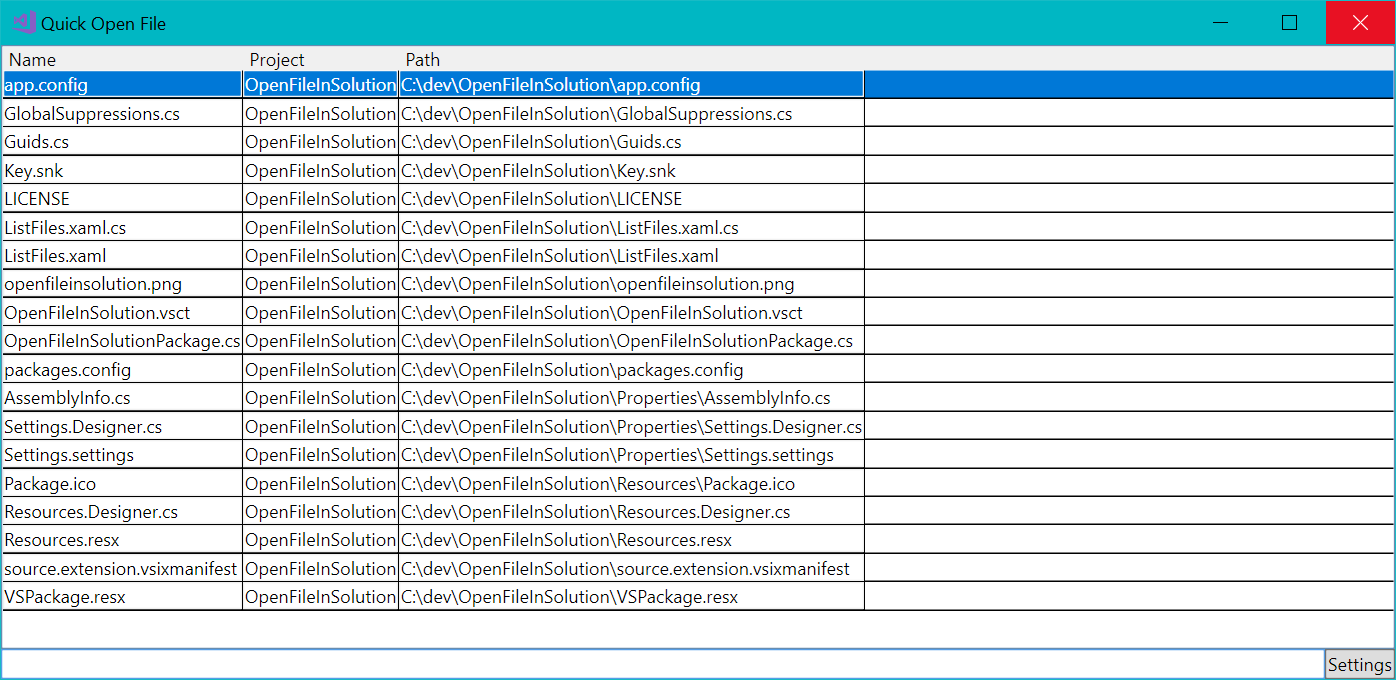
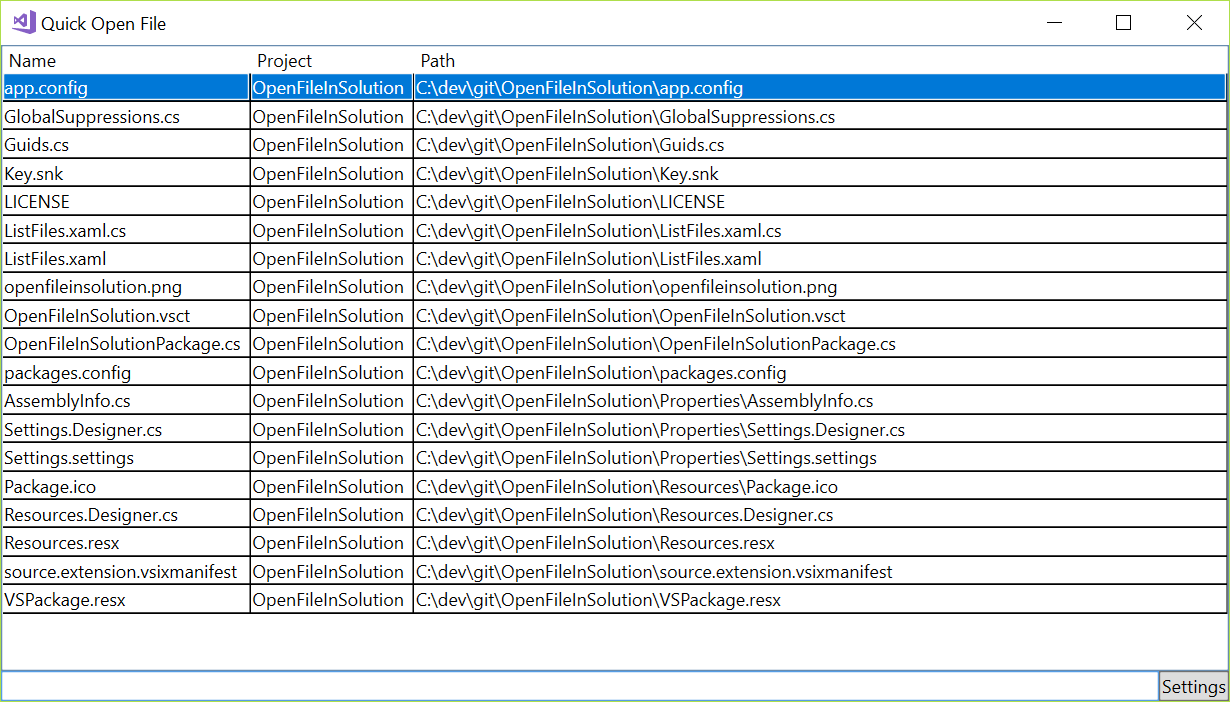
Visual cleanup Added sorting to file list
Manually added sort arrows to datagrid column headers because they're not there by default for some reason.
Removed grid border brush since it was causing double-thick lines to show sometimes and making the overall appearance a bit rough.
Added padding to the right edge of text in each column so it doesn't look so crowded.
Set final column to fill all remaining space.

Updated screenshot.

diff --git a/ListFiles.xaml b/ListFiles.xaml
@@ -20,16 +20,92 @@
             <Setter Property="FontFamily" Value="{DynamicResource VsFont.EnvironmentFontFamily}" />
             <Setter Property="FontSize" Value="{DynamicResource VsFont.EnvironmentFontSize}" />
         </Style>
+        <Style x:Key="ColumnHeaderGripperStyle" TargetType="{x:Type Thumb}">
+            <Setter Property="Width" Value="8"/>
+            <Setter Property="Background" Value="Transparent"/>
+            <Setter Property="Cursor" Value="SizeWE"/>
+            <Setter Property="Template">
+                <Setter.Value>
+                    <ControlTemplate TargetType="{x:Type Thumb}">
+                        <Border Background="{TemplateBinding Background}" Padding="{TemplateBinding Padding}"/>
+                    </ControlTemplate>
+                </Setter.Value>
+            </Setter>
+        </Style>
         <Style TargetType="DataGridColumnHeader">
             <Setter Property="Foreground" Value="{DynamicResource {x:Static vs_shell:EnvironmentColors.GridHeadingTextBrushKey}}"/>
             <Setter Property="Background" Value="{DynamicResource {x:Static vs_shell:EnvironmentColors.GridHeadingBackgroundBrushKey}}"/>
             <Setter Property="SeparatorBrush" Value="{DynamicResource {x:Static vs_shell:EnvironmentColors.GridLineBrushKey}}"/>
             <Setter Property="Padding" Value="4 0 0 0"/>
+            <Setter Property="Template">
+                <Setter.Value>
+                    <ControlTemplate TargetType="{x:Type DataGridColumnHeader}">
+                        <Grid>
+                            <Border x:Name="columnHeaderBorder"
+                              BorderThickness="1"
+                              Padding="3,0,3,0">
+                                <Border.BorderBrush>
+                                    <LinearGradientBrush EndPoint="0.5,1"
+                                        StartPoint="0.5,0">
+                                        <GradientStop Color="{DynamicResource BorderLightColor}"
+                                            Offset="0" />
+                                        <GradientStop Color="{DynamicResource BorderDarkColor}"
+                                            Offset="1" />
+                                    </LinearGradientBrush>
+                                </Border.BorderBrush>
+                                <Border.Background>
+                                    <LinearGradientBrush EndPoint="0.5,1"
+                                        StartPoint="0.5,0">
+                                        <GradientStop Color="{DynamicResource ControlLightColor}"
+                                            Offset="0" />
+                                        <GradientStop Color="{DynamicResource ControlMediumColor}"
+                                            Offset="1" />
+                                    </LinearGradientBrush>
+                                </Border.Background>
+                                <Grid>
+                                    <Grid.ColumnDefinitions>
+                                        <ColumnDefinition Width="Auto"/>
+                                        <ColumnDefinition Width="*"/>
+                                    </Grid.ColumnDefinitions>
+                                    <ContentPresenter Grid.Column="0" HorizontalAlignment="{TemplateBinding HorizontalContentAlignment}" SnapsToDevicePixels="{TemplateBinding SnapsToDevicePixels}" VerticalAlignment="{TemplateBinding VerticalContentAlignment}"/>
+                                    <Path x:Name="SortArrow"
+                                            Grid.Column="1"
+                                            HorizontalAlignment="Right" VerticalAlignment="Center"
+                                            Width="8" Height="6" Margin="2,0,5,0"
+                                            Stretch="Fill" Opacity="0.5" Fill="White"
+                                            RenderTransformOrigin="0.5,0.4"
+                                            Visibility="Collapsed"
+                                            Data="M0,0 L1,0 0.5,1 z" />
+                                </Grid>
+                            </Border>
+
+                            <Thumb x:Name="PART_LeftHeaderGripper"
+                                    HorizontalAlignment="Left"
+                                    Style="{StaticResource ColumnHeaderGripperStyle}"/>
+                            <Thumb x:Name="PART_RightHeaderGripper"
+                                    HorizontalAlignment="Right"
+                                    Style="{StaticResource ColumnHeaderGripperStyle}"/>
+                        </Grid>
+                        <ControlTemplate.Triggers>
+                            <Trigger Property="SortDirection" Value="Ascending">
+                                <Setter TargetName="SortArrow" Property="Visibility" Value="Visible" />
+                                <Setter TargetName="SortArrow" Property="RenderTransform">
+                                    <Setter.Value>
+                                        <RotateTransform Angle="180" />
+                                    </Setter.Value>
+                                </Setter>
+                            </Trigger>
+                            <Trigger Property="SortDirection" Value="Descending">
+                                <Setter TargetName="SortArrow" Property="Visibility" Value="Visible" />
+                            </Trigger>
+                        </ControlTemplate.Triggers>
+                    </ControlTemplate>
+                </Setter.Value>
+            </Setter>
         </Style>
         <Style TargetType="DataGridCell">
             <Setter Property="Foreground" Value="{DynamicResource {x:Static vs_shell:EnvironmentColors.ToolWindowTextBrushKey}}"/>
             <Setter Property="Background" Value="{DynamicResource {x:Static vs_shell:EnvironmentColors.ToolWindowBackgroundBrushKey}}"/>
-            <Setter Property="BorderBrush" Value="{DynamicResource {x:Static vs_shell:EnvironmentColors.GridLineBrushKey}}"/>
             <Style.Triggers>
                 <Trigger Property="IsSelected" Value="true">
                     <Setter Property="Foreground" Value="{DynamicResource {x:Static vs_shell:EnvironmentColors.SystemHighlightTextBrushKey}}"/>
@@ -129,26 +205,26 @@
             <RowDefinition Height="Auto"/>
             <RowDefinition Height="Auto"/>
         </Grid.RowDefinitions>
-        <DataGrid Name="lstFiles" SelectionMode="Extended" MouseDoubleClick="lstFiles_MouseDoubleClick" PreviewKeyDown="lstFiles_PreviewKeyDown" AutoGenerateColumns="False" CanUserResizeRows="False" CanUserDeleteRows="False">
+        <DataGrid Name="lstFiles" SelectionMode="Extended" MouseDoubleClick="lstFiles_MouseDoubleClick" PreviewKeyDown="lstFiles_PreviewKeyDown" AutoGenerateColumns="False" CanUserResizeRows="False" CanUserDeleteRows="False" CanUserSortColumns="True">
             <DataGrid.Columns>
-                <DataGridTemplateColumn Header="Name" Width="SizeToCells">
+                <DataGridTemplateColumn Header="Name" Width="Auto" SortMemberPath="Filename">
                     <DataGridTemplateColumn.CellTemplate>
                         <DataTemplate>
-                            <TextBlock Text="{Binding Filename}"/>
+                            <TextBlock Text="{Binding Filename}" Padding="0,0,5,0"/>
                         </DataTemplate>
                     </DataGridTemplateColumn.CellTemplate>
                 </DataGridTemplateColumn>
-                <DataGridTemplateColumn Header="Project" Width="Auto">
+                <DataGridTemplateColumn Header="Project" Width="Auto" SortMemberPath="Project">
                     <DataGridTemplateColumn.CellTemplate>
                         <DataTemplate>
-                            <TextBlock Text="{Binding Project}"/>
+                            <TextBlock Text="{Binding Project}" Padding="0,0,5,0"/>
                         </DataTemplate>
                     </DataGridTemplateColumn.CellTemplate>
                 </DataGridTemplateColumn>
-                <DataGridTemplateColumn Header="Path" Width="Auto">
+                <DataGridTemplateColumn Header="Path" Width="*" SortMemberPath="Path">
                     <DataGridTemplateColumn.CellTemplate>
                         <DataTemplate>
-                            <TextBlock Text="{Binding Path}"/>
+                            <TextBlock Text="{Binding Path}" Padding="0,0,5,0"/>
                         </DataTemplate>
                     </DataGridTemplateColumn.CellTemplate>
                 </DataGridTemplateColumn>
